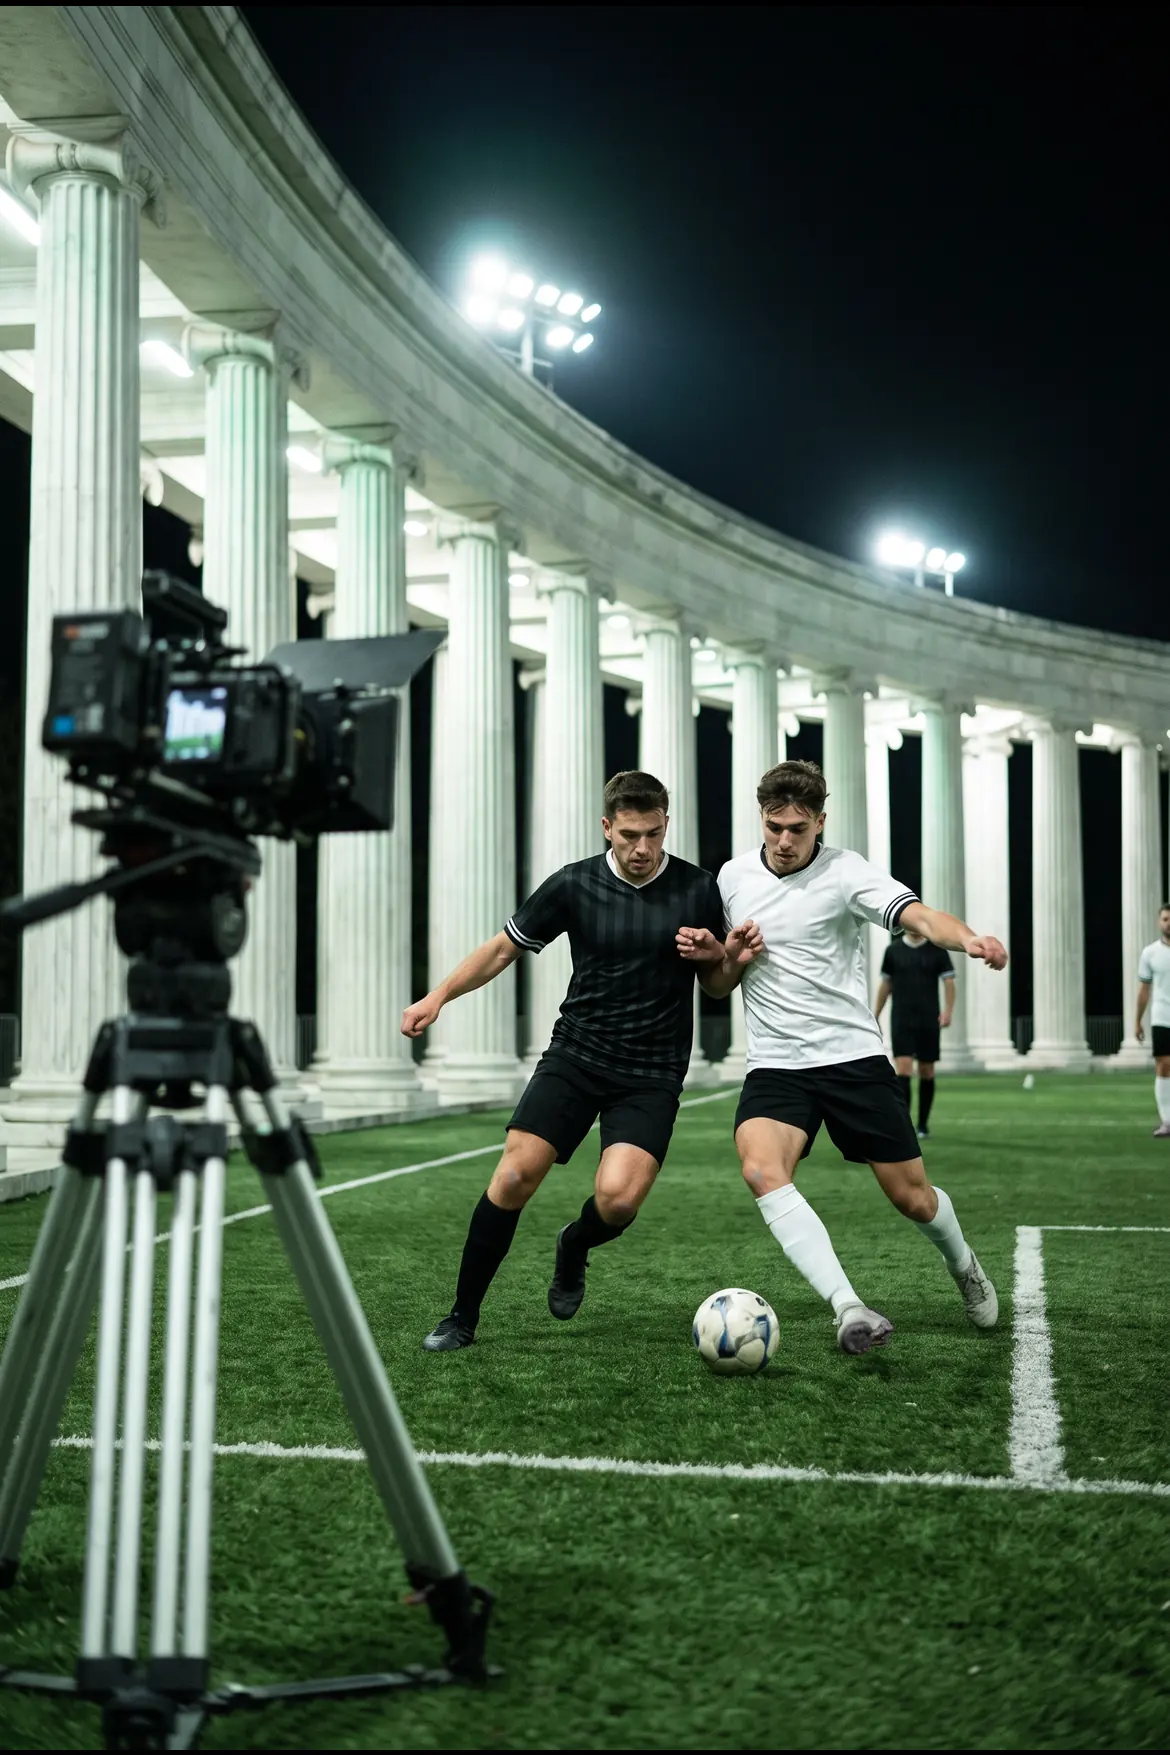
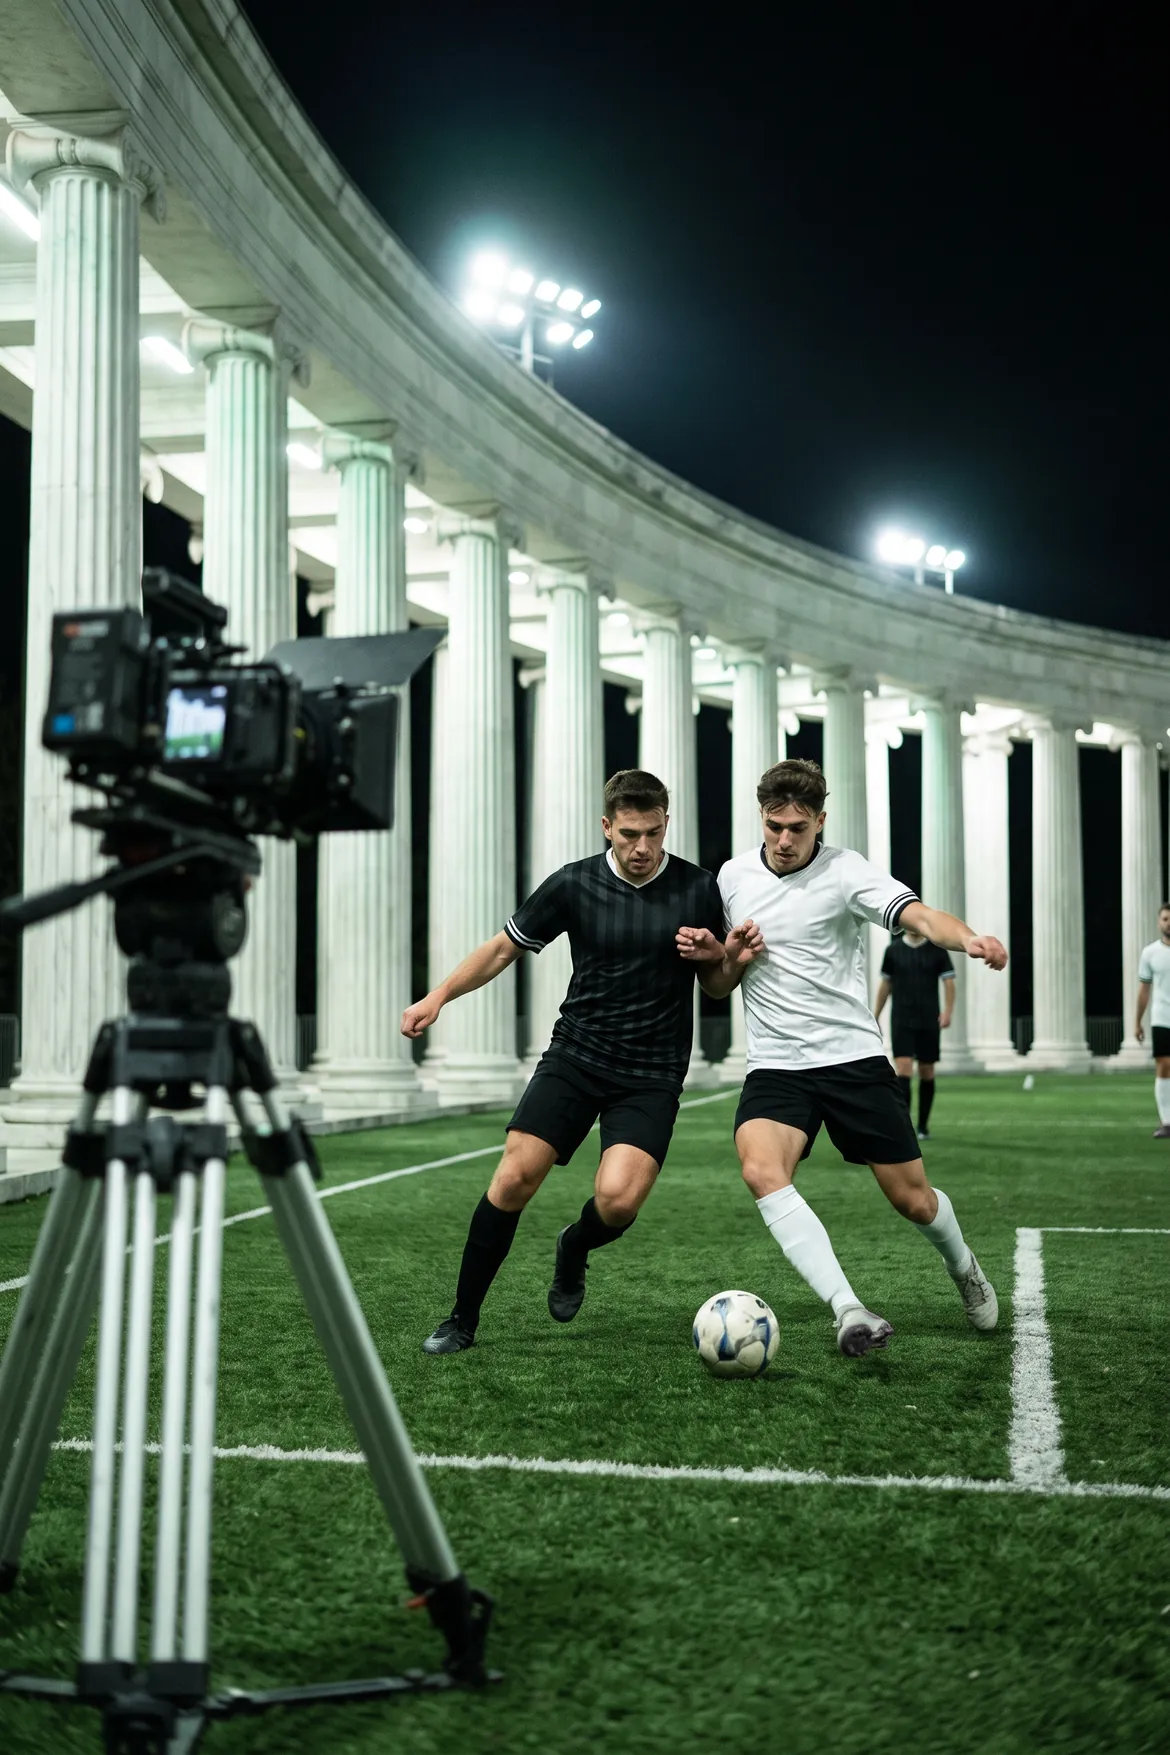
Bola Plus : cérémonies et matchs filmés sans mains ni genoux gris, le podium se voit, la grille SFL porte son sigle
- « Les cérémonies officielles » et « Tes matchs filmés » : seules les chaussures rouges perdent leur rouge (masque limité aux pieds) ; mains, genoux et visages gardent leur peau. Le voile vert monte moins haut sur les cérémonies : le podium se lit sous le titre.
- « Ton prix » : le bundle et la grille officielle barrée vont ensemble au milieu de la carte, la grille précédée du sigle SFL ; plus de grand vide entre les deux.
- « Ramène 5 abonnés. » : « Le tien est offert, tant qu'ils restent abonnés. »
- Clavier et lecteur d'écran : le rail s'appelle « Cartes », chaque carte est un groupe nommé ; plusieurs ← → rapides avancent d'autant ; « Je suis intéressé » de la barre devient « C'est noté » sans perdre le focus.
- « Réduire les animations » : les flèches ‹ › ne fondent plus.
- En-tête de lib/sfl/bola-plus.ts : la remise est calculée, plus affichée depuis le 14/11.

Claude-Session: https://claude.ai/code/session_01T2vpMe8TqcUe6WqE24A85v

diff --git a/src/components/sfl/bola-plus.tsx b/src/components/sfl/bola-plus.tsx
@@ -449,7 +449,7 @@ function DiapoComposant({ avantage, composant }: { avantage: Avantage; composant
  * maillots portés (Avantage.depose, gardés hors du dépôt) ne prennent sa
  * place qu'une fois chargés : absents, rien ne bouge ni ne reste vide.
  */
-function DiapoPhoto({ avantage, visuel, tot }: { avantage: Avantage; visuel: Visuel; tot: boolean }) {
+function DiapoPhoto({ avantage, visuel }: { avantage: Avantage; visuel: Visuel }) {
   const [deposeLa, setDeposeLa] = useState(false);
   const depose = deposeLa ? avantage.depose : undefined;
 
@@ -472,6 +472,7 @@ function DiapoPhoto({ avantage, visuel, tot }: { avantage: Avantage; visuel: Vis
     <div
       className={cn("bp-photo-carte dark", `bp-photo-carte--${avantage.part}`)}
       data-teindre={visuel.teindre && !depose ? "" : undefined}
+      data-voile-court={visuel.voileCourt && !depose ? "" : undefined}
       style={{ ["--teinte" as string]: visuel.teinte }}
     >
       {depose ? (
@@ -487,7 +488,7 @@ function DiapoPhoto({ avantage, visuel, tot }: { avantage: Avantage; visuel: Vis
           width={LARGEUR}
           height={hauteurDe(visuel)}
           alt={visuel.alt}
-          loading={tot ? undefined : "lazy"}
+          loading="lazy"
           decoding="async"
           draggable={false}
           className="bp-photo"
@@ -530,6 +531,7 @@ function DiapoParrainage({ vu }: { vu: boolean }) {
 function DiapoPrix({ plus, choix, onChoix, actionRef }: { plus: BolaPlus; choix: Formule | null; onChoix: (f: Formule | null) => void; actionRef: RefObject<HTMLDivElement | null> }) {
   return (
     <div className="bp-prix">
+      <div className="bp-prix__haut">
       <ul className="bp-bundle" aria-label="Ce que tu reçois">
         {BUNDLE.map((b, i) => (
           <li key={b}>
@@ -543,12 +545,14 @@ function DiapoPrix({ plus, choix, onChoix, actionRef }: { plus: BolaPlus; choix:
         ))}
       </ul>
       <p className="bp-grille" aria-label={`Grille officielle de la ${NOM_PART.sfl}`}>
+        <SigleLigue ligue="sfl" hauteur={10} className="bp-grille__sigle" />
         {GRILLE_SFL.map((g) => (
           <s key={g.par} className="tabular-nums whitespace-nowrap">
             {g.prix}&nbsp;€ / {g.par}
           </s>
         ))}
       </p>
+      </div>
       <Titre className="bp-etiquette-prix bp-prix__etiquette">Prix premiers joueurs</Titre>
       <OffreBolaPlus plus={plus} choix={choix} onChoix={onChoix} actionRef={actionRef} />
     </div>
@@ -563,15 +567,15 @@ function DiapoPrix({ plus, choix, onChoix, actionRef }: { plus: BolaPlus; choix:
 function BarreInteret({ note, occupe, cachee, onNoter, onVoirOffre }: { note: boolean; occupe: boolean; cachee: boolean; onNoter: () => void; onVoirOffre: () => void }) {
   return createPortal(
     <div className="bp-barre" data-cachee={cachee ? "" : undefined} inert={cachee}>
-      {note ? (
-        <button type="button" onClick={onVoirOffre} className="bp-barre__note text-lecture font-bold">
-          <CestNote />
-        </button>
-      ) : (
-        <button type="button" onClick={onNoter} disabled={occupe} className="bouton-principal h-[52px] w-full text-lecture font-bold disabled:opacity-40">
-          Je suis intéressé
-        </button>
-      )}
+      {/* Un seul bouton, dont le contenu change : jamais désactivé (aria-disabled), il garde le focus quand « Je suis intéressé » devient « C'est noté ». */}
+      <button
+        type="button"
+        aria-disabled={!note && occupe ? true : undefined}
+        onClick={() => (note ? onVoirOffre() : !occupe && onNoter())}
+        className={note ? "bp-barre__note text-lecture font-bold" : "bouton-principal h-[52px] w-full text-lecture font-bold aria-disabled:opacity-40"}
+      >
+        {note ? <CestNote /> : "Je suis intéressé"}
+      </button>
     </div>,
     document.body
   );
@@ -611,7 +615,9 @@ export function PageBolaPlus() {
   const plus = useBolaPlus();
   const [choix, setChoix] = useState<Formule | null>(null);
   const actionRef = useRef<HTMLDivElement | null>(null);
-  const railRef = useRef<HTMLOListElement>(null);
+  const railRef = useRef<HTMLDivElement>(null);
+  // La carte visée par le dernier saut (flèches, segments) : plusieurs ← → rapides avancent d'autant, sans attendre la fin du défilement doux.
+  const vise = useRef<number | null>(null);
   const liste = diapos();
   const n = liste.length;
   const iPrix = liste.findIndex((d) => d.id === "prix");
@@ -631,6 +637,7 @@ export function PageBolaPlus() {
         for (const e of entrees) {
           if (!e.isIntersecting) continue;
           const i = Number((e.target as HTMLElement).dataset.index);
+          if (vise.current === i) vise.current = null;
           setActif(i);
           setVus((v) => (v.has(i) ? v : new Set(v).add(i)));
         }
@@ -643,25 +650,30 @@ export function PageBolaPlus() {
 
   function aller(i: number) {
     const rail = railRef.current;
-    const li = rail?.children[Math.max(0, Math.min(n - 1, i))] as HTMLElement | undefined;
+    const j = Math.max(0, Math.min(n - 1, i));
+    const li = rail?.children[j] as HTMLElement | undefined;
     if (!rail || !li) return;
+    vise.current = j;
     const doux = !window.matchMedia("(prefers-reduced-motion: reduce)").matches;
     rail.scrollTo({ left: li.offsetLeft - (rail.clientWidth - li.offsetWidth) / 2, behavior: doux ? "smooth" : "auto" });
   }
 
-  function clavier(e: KeyboardEvent<HTMLOListElement>) {
-    const cible = e.key === "ArrowRight" ? actif + 1 : e.key === "ArrowLeft" ? actif - 1 : e.key === "Home" ? 0 : e.key === "End" ? n - 1 : null;
+  /** D'où partent ← et → : la carte visée par un saut en cours, sinon celle à l'écran. */
+  const depart = () => vise.current ?? actif;
+
+  function clavier(e: KeyboardEvent<HTMLDivElement>) {
+    const cible = e.key === "ArrowRight" ? depart() + 1 : e.key === "ArrowLeft" ? depart() - 1 : e.key === "Home" ? 0 : e.key === "End" ? n - 1 : null;
     if (cible === null) return;
     e.preventDefault();
     aller(cible);
   }
 
-  function rendu(d: Diapo, i: number) {
+  function rendu(d: Diapo) {
     if (d.id === "ouverture") return <DiapoOuverture />;
     if (d.id === "prix") return <DiapoPrix plus={plus} choix={choix} onChoix={setChoix} actionRef={actionRef} />;
     if ("avantage" in d) {
       const v = d.avantage.visuel;
-      return v.genre === "image" ? <DiapoPhoto avantage={d.avantage} visuel={v} tot={i <= 1} /> : <DiapoComposant avantage={d.avantage} composant={v.composant} />;
+      return v.genre === "image" ? <DiapoPhoto avantage={d.avantage} visuel={v} /> : <DiapoComposant avantage={d.avantage} composant={v.composant} />;
     }
     return <DiapoParrainage vu={vus.has(iParrainage)} />;
   }
@@ -672,17 +684,18 @@ export function PageBolaPlus() {
         <BoutonRetour />
       </div>
       <div className="bp-scene">
-        <ol ref={railRef} className="bp-rail" tabIndex={0} onKeyDown={clavier}>
+        {/* Le rail (role group des diapositives : le motif « carrousel » de l'APG) ; il prend le focus, avec son nom. */}
+        <div ref={railRef} className="bp-rail" tabIndex={0} aria-label="Cartes" onKeyDown={clavier} onPointerDown={() => (vise.current = null)}>
           {liste.map((d, i) => (
-            <li key={d.id} data-index={i} data-part={partDe(d)} className="bp-diapo" aria-roledescription="diapositive" aria-label={`${i + 1} sur ${n} : ${d.nom}`}>
-              {rendu(d, i)}
-            </li>
+            <div key={d.id} role="group" data-index={i} data-part={partDe(d)} className="bp-diapo" aria-roledescription="diapositive" aria-label={`${i + 1} sur ${n} : ${d.nom}`}>
+              {rendu(d)}
+            </div>
           ))}
-        </ol>
-        <button type="button" className="bp-fleche bp-fleche--avant" aria-label="Carte précédente" disabled={actif === 0} onClick={() => aller(actif - 1)}>
+        </div>
+        <button type="button" className="bp-fleche bp-fleche--avant" aria-label="Carte précédente" disabled={actif === 0} onClick={() => aller(depart() - 1)}>
           <ChevronLeft className="size-5" strokeWidth={2.4} aria-hidden />
         </button>
-        <button type="button" className="bp-fleche bp-fleche--apres" aria-label="Carte suivante" disabled={actif === n - 1} onClick={() => aller(actif + 1)}>
+        <button type="button" className="bp-fleche bp-fleche--apres" aria-label="Carte suivante" disabled={actif === n - 1} onClick={() => aller(depart() + 1)}>
           <ChevronRight className="size-5" strokeWidth={2.4} aria-hidden />
         </button>
       </div>

diff --git a/tools/bola-plus-check.ts b/tools/bola-plus-check.ts
@@ -561,7 +561,7 @@ async function banc() {
   const ordre = diapos().map((d) => d.id);
   assert.deepEqual(ordre, ["ouverture", ...AVANTAGES.map((a) => a.id), "parrainage", "prix"]);
   assert.equal(diapos([...AVANTAGES, { id: "studio", part: "plus", titre: "Ton studio", visuel: { genre: "composant", composant: "carte" } }]).length, ordre.length + 1, "un avantage de plus fait une carte de plus, sans rien d'autre");
-  assert.deepEqual(PARRAINAGE, { titre: "Ramène 5 abonnés.", sous: "Le tien est offert.", nombre: 5 });
+  assert.deepEqual(PARRAINAGE, { titre: "Ramène 5 abonnés.", sous: "Le tien est offert, tant qu'ils restent abonnés.", nombre: 5 });
   assert.equal(AFFICHE.alt, "", "l'ouverture : le stade est un décor");
   assert.deepEqual([...LARGEURS], [480, 780, 1170]);
   assert.equal(sourcesVisuel("affiche"), "/bola-plus/affiche-480.webp 480w, /bola-plus/affiche-780.webp 780w, /bola-plus/affiche-1170.webp 1170w");
@@ -708,6 +708,8 @@ async function banc() {
     assert.ok(/aria-current=\{i === actif \? "true" : undefined\}/.test(page) && /aria-label=\{`Aller à \$\{i \+ 1\} sur \$\{n\} : \$\{d\.nom\}`\}/.test(page), "les segments disent où l'on est");
     assert.ok(/e\.key === "ArrowRight"/.test(page) && /e\.key === "Home"/.test(page) && /e\.key === "End"/.test(page) && /onKeyDown=\{clavier\}/.test(page), "le clavier fait tourner le carrousel");
     assert.ok(/e\.stopPropagation\(\);/.test(offre), "les flèches des formules ne font pas tourner le carrousel");
+    assert.ok(/className="bp-rail" tabIndex=\{0\} aria-label="Cartes"/.test(page) && /role="group"[^>]*aria-roledescription="diapositive"/.test(page), "le rail et chaque diapositive ont un nom");
+    assert.ok(/vise\.current = j;/.test(page) && /const depart = \(\) => vise\.current \?\? actif;/.test(page) && /aller\(depart\(\) \+ 1\)/.test(page), "plusieurs ← → rapides avancent d'autant");
     assert.ok(/threshold: 0\.6/.test(page) && /root: rail/.test(page), "la carte active : les trois cinquièmes du rail");
     assert.ok(/behavior: doux \? "smooth" : "auto"/.test(page) && /prefers-reduced-motion: reduce/.test(page), "les sauts suivent « Réduire les animations »");
     assert.ok(/diapos\(\)/.test(page), "le carrousel lit la liste des cartes de la source");
@@ -719,7 +721,9 @@ async function banc() {
     assert.ok(/function interesser\(\) \{\s*suivre\.current = true;\s*noter\(choix\);\s*\}/.test(offre) && /onClick=\{interesser\}/.test(offre), "le bouton de l'offre note par le même noter");
     assert.ok(/aller\(iPrix\);/.test(page), "« C'est noté » mène à « Ton prix »");
     assert.equal(tsx.match(/useBolaPlus\(\)/g)?.length, 2, "un seul useBolaPlus pour la page (et celui de la tuile)");
-    assert.ok(/onClick=\{onNoter\} disabled=\{occupe\}/.test(barre), "la barre : bouton gelé pendant l'envoi");
+    assert.ok(/aria-disabled=\{!note && occupe \? true : undefined\}/.test(barre) && /!occupe && onNoter\(\)/.test(barre), "la barre : bouton gelé pendant l'envoi");
+    // Un seul bouton, jamais désactivé : le focus reste dessus quand « Je suis intéressé » devient « C'est noté ».
+    assert.ok(!/(?<!-)\bdisabled=/.test(barre) && barre.match(/<button/g)?.length === 1, "la barre : un seul bouton, qui garde le focus");
     assert.equal(offre.match(/disabled=\{occupe\}/g)?.length, 3, "l'offre : formules, bouton et « Annuler » gelés pendant l'envoi");
     assert.ok(/if \(!interet\) onChoix\(f\);\s*else if \(interet\.formule !== f\) noter\(f\);/.test(offre), "une fois noté, toucher une formule la change");
     // Les prix de l'offre : PRIX_FORMULE, avec le barré et la ligne dessous ; rien ne les cache.
@@ -732,7 +736,7 @@ async function banc() {
     assert.ok(/const \[deposeLa, setDeposeLa\] = useState\(false\);/.test(photo) && /const depose = deposeLa \? avantage\.depose : undefined;/.test(photo), "la carte montre le portant tant que le visuel déposé n'est pas chargé");
     assert.ok(/essai\.onload = \(\) => \{\s*if \(vivant && essai\.naturalWidth > 0\) setDeposeLa\(true\);/.test(photo) && !/onerror/.test(photo), "le visuel déposé ne passe devant qu'une fois chargé");
     assert.ok(/alt=\{visuel\.alt\}/.test(photo) && /alt=\{depose\.alt\}/.test(photo) && /alt=\{AFFICHE\.alt\}/.test(ouverture), "chaque visuel a son texte de remplacement");
-    assert.ok(/srcSet=\{sourcesVisuel\(/.test(photo) && /sizes=\{TAILLES\}/.test(photo) && /loading=\{tot \? undefined : "lazy"\}/.test(photo), "les visuels : trois tailles, chargés quand on y arrive");
+    assert.ok(/srcSet=\{sourcesVisuel\(/.test(photo) && /sizes=\{TAILLES\}/.test(photo) && /loading="lazy"/.test(photo), "les visuels : trois tailles, chargés quand on y arrive");
     // Les mots de l'écran : une liste fermée. Ni sous-titre, ni texte d'aide.
     const mots = [...new Set([...sansCommentaire.replace(/&apos;/g, "'").matchAll(/>\s*([^<>{}\n;()=]*[A-Za-zÀ-ÿ][^<>{}\n;()=]*?)\s*</g)].map((m) => m[1].trim()))].sort();
     assert.deepEqual(mots, ["Annuler", "Bola Plus", "C'est noté", "Je suis intéressé", "Offert", "Prix premiers joueurs", "Toi"], "les mots de l'écran : une liste fermée");
@@ -746,7 +750,7 @@ async function banc() {
     for (const m of sansNotes.matchAll(/rgb\((\d+) (\d+) (\d+)/g)) assert.ok(Math.max(+m[1], +m[2], +m[3]) - Math.min(+m[1], +m[2], +m[3]) <= 8, `une couleur écrite dans la feuille : ${m[0]}`);
     assert.ok(!/animation:|@keyframes/.test(sansNotes), "rien ne bouge en boucle");
     const reduit = /@media \(prefers-reduced-motion: reduce\) \{([\s\S]*)\}\s*$/.exec(css)?.[1] ?? "";
-    assert.ok(/\.bp-arc__rond,[\s\S]*transition: none;/.test(reduit), "mouvement réduit : rien ne glisse ni ne fond");
+    assert.ok(/\.bp-arc__rond,[\s\S]*\.bp-fleche \{\s*transition: none;/.test(reduit), "mouvement réduit : rien ne glisse ni ne fond (flèches comprises)");
     assert.ok(/\.bp-parrainage \.bp-arc__rond \{[^}]*background-color: var\(--bp-prix\);/.test(reduit), "mouvement réduit : les ronds de « Ramène 5 » sont pleins d'emblée");
     assert.ok(/html\[data-clavier\] \.bp-barre \{\s*display: none;/.test(css), "la barre s'efface sous le clavier");
     assert.ok(/@media \(pointer: fine\)/.test(css) && /\.bp-fleche \{\s*display: none;/.test(css), "les flèches : sur ordinateur seulement");

diff --git a/src/lib/sfl/bola-plus.ts b/src/lib/sfl/bola-plus.ts
@@ -7,8 +7,9 @@
 // sont écrits ici seulement, en centimes entiers (des euros flottants
 // arrondis par toFixed tombent parfois sous le prix : 0,07 € en 3 fois
 // donnerait 3 × 0,02 €). Tout le reste se calcule ici : la
-// remise de l'annuel (1 − 16 890 / (12 × 1 990) = 29,27 %, affichée « −29 % »,
-// arrondie vers le bas pour ne jamais promettre plus) et l'échéance des
+// remise de l'annuel (1 − 16 890 / (12 × 1 990) = 29,27 %, « −29 % » arrondi
+// vers le bas pour ne jamais promettre plus ; calculée, plus affichée depuis
+// le 14/11 : le barré de la grille SFL suffit) et l'échéance des
 // 4 fois (16 890 / 4 = 4 222,5 centimes, arrondie au centime supérieur :
 // « 4 × 42,23 € sans frais » ; quatre échéances affichées font 168,92 €,
 // deux centimes au-dessus du prix, jamais en dessous). Aucun prestataire
@@ -246,6 +247,8 @@ export interface Visuel {
   rapport: number;
   /** Un visuel en noir et blanc : la feuille le teint dans la couleur de sa part. */
   teindre?: boolean;
+  /** Un voile bas plus court : le bas de l'image (le podium des cérémonies) reste lisible sous le titre. */
+  voileCourt?: boolean;
 }
 
 /**
@@ -313,12 +316,12 @@ export const AVANTAGES: readonly Avantage[] = [
     id: "ceremonies",
     part: "sfl",
     titre: "Les cérémonies officielles",
-    visuel: { genre: "image", image: "ceremonies", alt: "Image générée : un joueur lève le trophée noir sur le podium de marbre, ses coéquipiers applaudissent", teinte: "#22243a", rapport: RAPPORT_CARROUSEL },
+    visuel: { genre: "image", image: "ceremonies", alt: "Image générée : un joueur lève le trophée noir sur le podium de marbre, ses coéquipiers applaudissent", teinte: "#22243a", rapport: RAPPORT_CARROUSEL, voileCourt: true },
   },
 ];
 
-/** « Ramène 5 abonnés » (14/11 20:39) : seulement expliqué, ni suivi ni paiement. */
-export const PARRAINAGE = { titre: "Ramène 5 abonnés.", sous: "Le tien est offert.", nombre: 5 } as const;
+/** « Ramène 5 abonnés » (14/11 20:39) : seulement expliqué, ni suivi ni paiement ; offert tant que les cinq paient. */
+export const PARRAINAGE = { titre: "Ramène 5 abonnés.", sous: "Le tien est offert, tant qu'ils restent abonnés.", nombre: 5 } as const;
 
 /** Les diapositives du carrousel, dans l'ordre : l'ouverture, les avantages, « Ramène 5 », le prix. */
 export type Diapo = { id: "ouverture"; nom: string } | ({ id: string; nom: string } & { avantage: Avantage }) | { id: "parrainage"; nom: string } | { id: "prix"; nom: string };

diff --git a/src/components/sfl/bola-plus.css b/src/components/sfl/bola-plus.css
@@ -390,6 +390,12 @@
     linear-gradient(to bottom, rgb(0 0 0 / 0.42) 0%, transparent 20%);
   box-shadow: inset 0 0 0 1px rgb(255 255 255 / 0.08);
 }
+/* Le voile court (Visuel.voileCourt) : il ne monte que jusqu'au-dessus du titre. */
+.bp-photo-carte[data-voile-court]::after {
+  background:
+    linear-gradient(to top, var(--bp-sfl-fond) 0%, color-mix(in srgb, var(--bp-sfl-fond) 70%, transparent) 14%, transparent 32%),
+    linear-gradient(to bottom, rgb(0 0 0 / 0.42) 0%, transparent 20%);
+}
 /* Le portant des maillots est en noir et blanc : la lumière verte du stade passe dessus. */
 .bp-photo-carte[data-teindre]::before {
   content: "";
@@ -502,10 +508,19 @@
     #fff;
   box-shadow: inset 0 0 0 1px rgb(10 11 13 / 0.08);
 }
-/* Le bundle : ce que tu reçois, une pièce après l'autre, au milieu de la place libre. */
-.bp-bundle {
+/* Le haut : le bundle et, juste dessous, la grille officielle barrée, ensemble au milieu de la place libre. */
+.bp-prix__haut {
   display: flex;
   flex: 1 0 auto;
+  flex-direction: column;
+  justify-content: center;
+  gap: 14px;
+  min-height: 0;
+}
+/* Le bundle : ce que tu reçois, une pièce après l'autre. */
+.bp-bundle {
+  display: flex;
+  flex: none;
   flex-wrap: wrap;
   align-content: center;
   align-items: center;
@@ -548,11 +563,17 @@
 .bp-grille {
   display: flex;
   flex-wrap: wrap;
+  align-items: center;
+  justify-content: center;
   gap: 4px 10px;
   margin: 0;
   font-size: 12px;
   font-weight: 600;
   color: color-mix(in srgb, currentColor 55%, transparent);
+}
+/* Le sigle SFL devant la grille : c'est la sienne, sans un mot de plus. */
+.bp-grille__sigle {
+  opacity: 0.8;
 }
 .bp-grille s {
   text-decoration-thickness: 1.5px;
@@ -859,7 +880,8 @@ html[data-clavier] .bp-barre {
   .bp-segment > span,
   .bp-formule,
   .bp-barre,
-  .bp-barre[data-cachee] {
+  .bp-barre[data-cachee],
+  .bp-fleche {
     transition: none;
   }
   /* Les ronds de « Ramène 5 » sont pleins d'emblée. */
